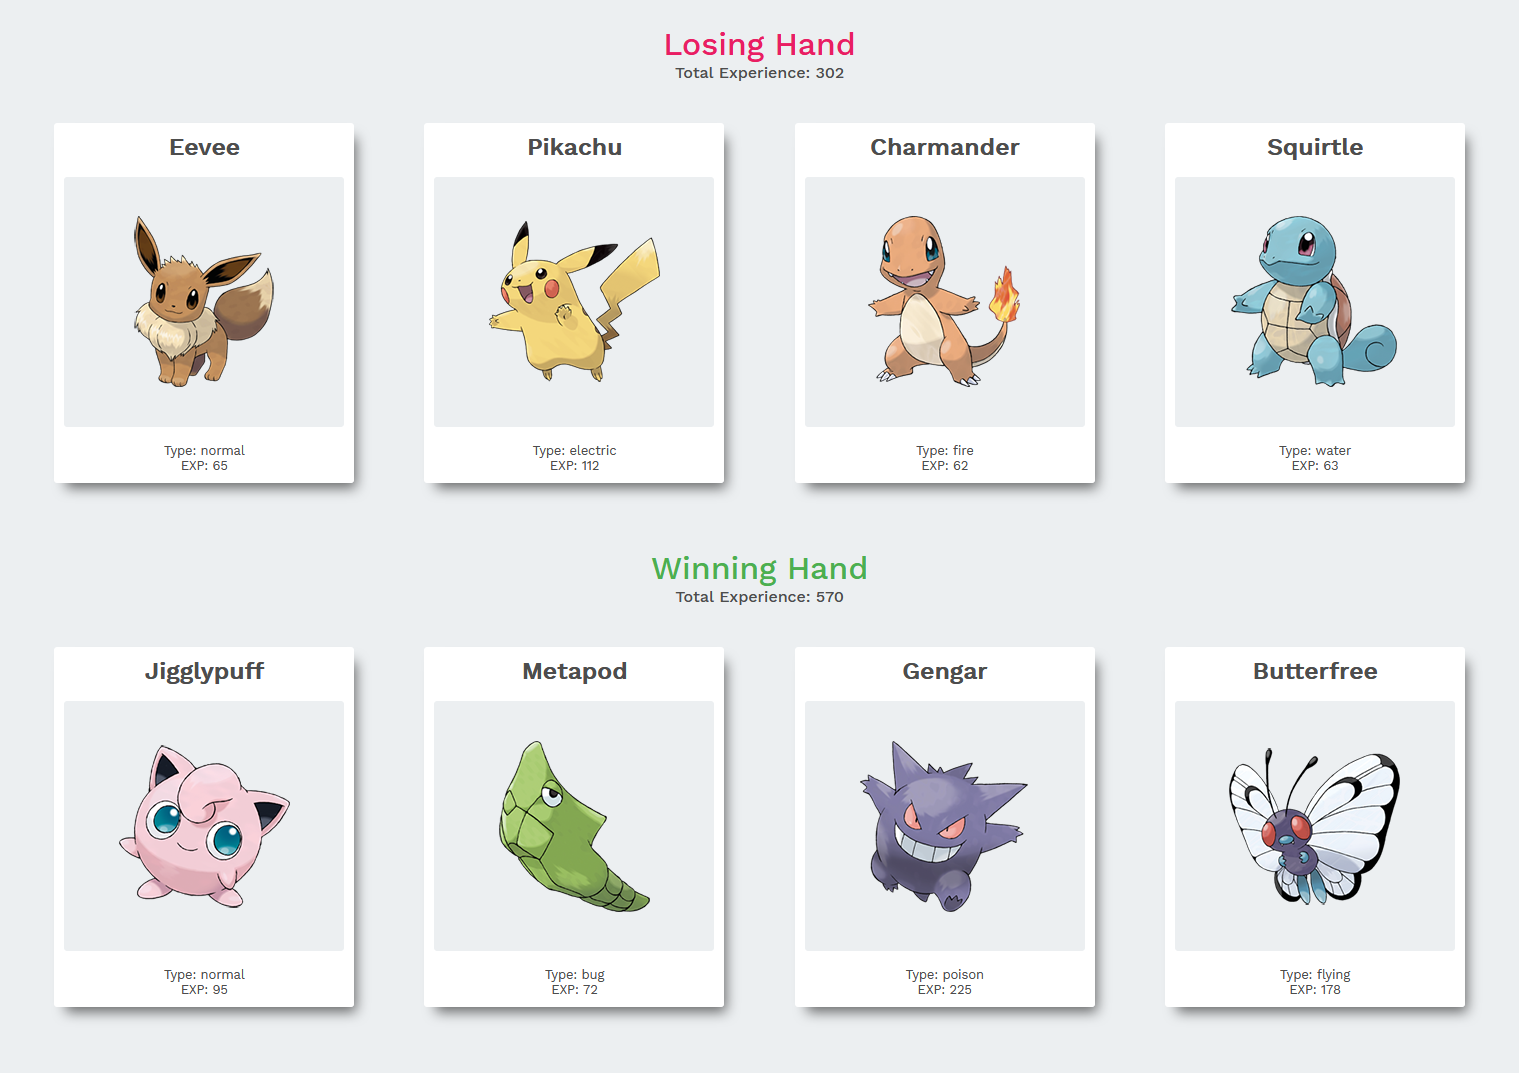
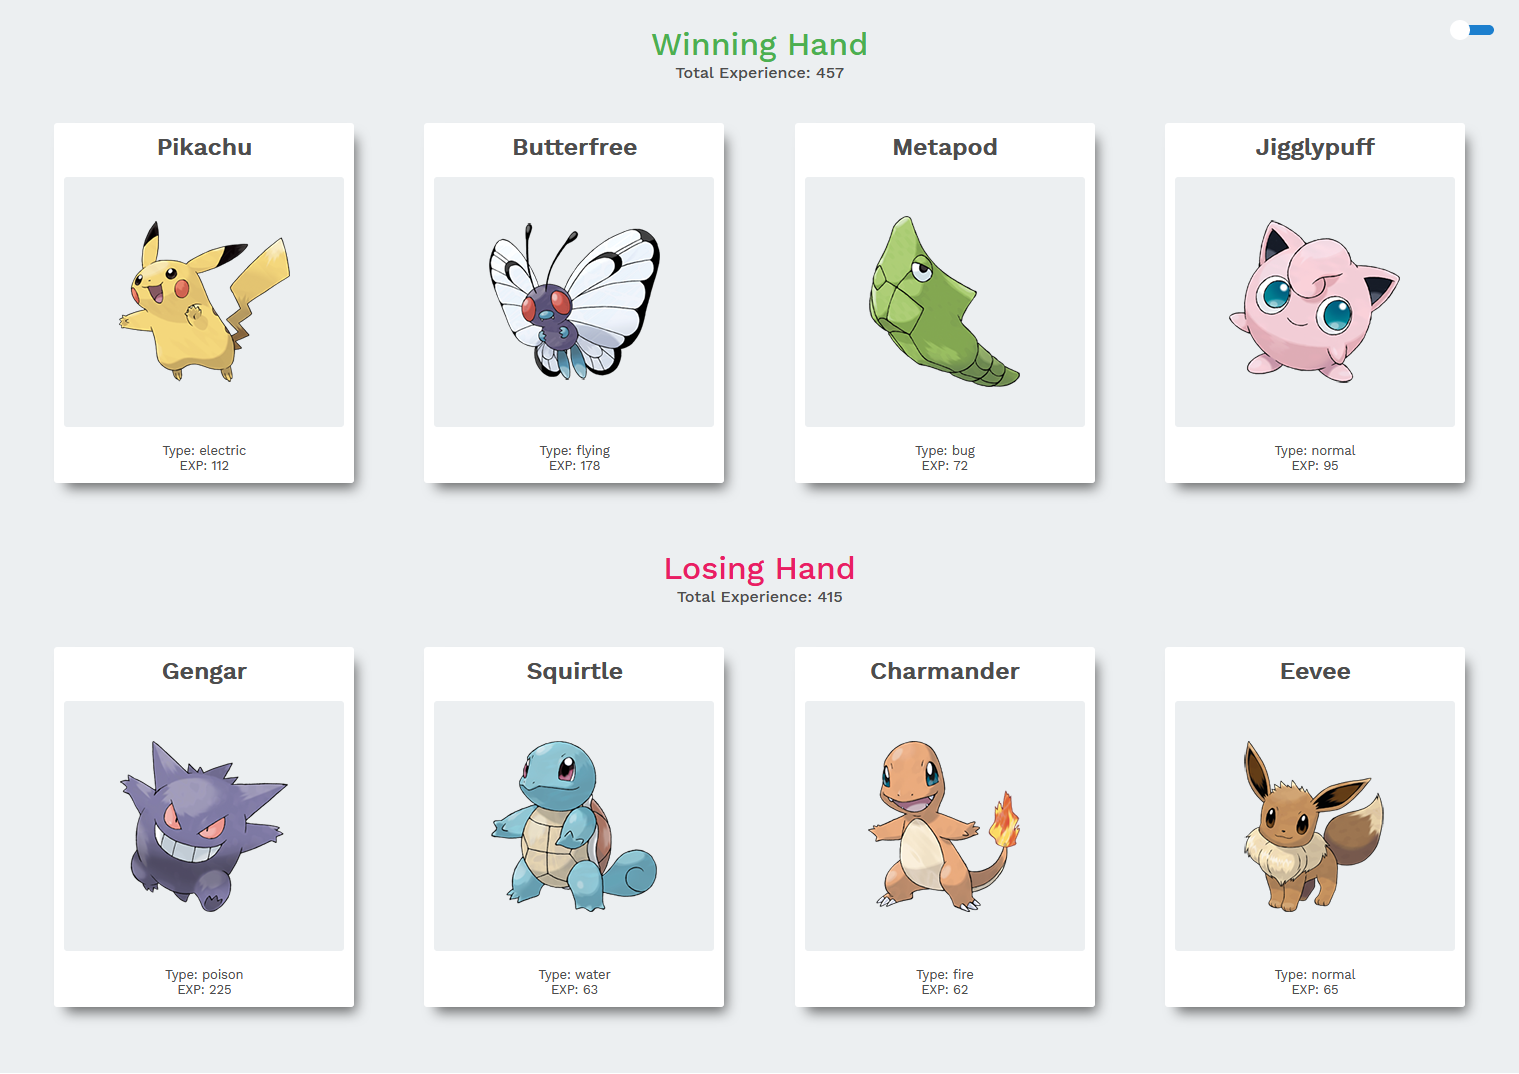
Add dark mode option

diff --git a/src/components/PokeGame/index.tsx b/src/components/PokeGame/index.tsx
@@ -1,6 +1,17 @@
-import React, { useState, useEffect } from 'react';
-import PokeDex from '../PokeDex';
+import React, { useState, useEffect, useContext } from 'react';
+
+import Switch from 'react-switch';
+import { ThemeContext } from 'styled-components';
+import { shade } from 'polished';
+
 import api from '../../services/api';
+import PokeDex from '../PokeDex';
+
+import { SwitchWrapper } from './styles';
+
+interface Props {
+  toggleTheme(): void;
+}
 
 interface Request {
   id: number;
@@ -9,9 +20,10 @@ interface Request {
   base_experience: number;
 }
 
-const PokeGame: React.FC = () => {
+const PokeGame: React.FC<Props> = ({ toggleTheme }) => {
   const [hand1, setHand1] = useState<Request[]>([]);
   const [hand2, setHand2] = useState<Request[]>([]);
+  const { colors, title } = useContext(ThemeContext);
 
   useEffect(() => {
     async function loadPokemons(): Promise<void> {
@@ -33,6 +45,20 @@ const PokeGame: React.FC = () => {
 
   return (
     <>
+      <SwitchWrapper>
+        <Switch
+          onChange={toggleTheme}
+          checked={title === 'dark'}
+          checkedIcon={false}
+          uncheckedIcon={false}
+          height={10}
+          width={40}
+          handleDiameter={20}
+          offColor={shade(0.15, colors.barColor)}
+          onColor={colors.barColor}
+        />
+      </SwitchWrapper>
+
       <PokeDex pokemon={hand1} exp={exp1} isWinner={exp1 > exp2} />
       <PokeDex pokemon={hand2} exp={exp2} isWinner={exp2 > exp1} />
     </>

diff --git a/src/App.tsx b/src/App.tsx
@@ -1,13 +1,30 @@
-import React from 'react';
+import React, { useCallback } from 'react';
+import { ThemeProvider, DefaultTheme } from 'styled-components';
 import PokeGame from './components/PokeGame';
+
+import usePersistedState from './utils/usePersistedState';
+
+import light from './styles/themes/light';
+import dark from './styles/themes/dark';
 
 import GlobalStyle from './styles/global';
 
-const App: React.FC = () => (
-  <>
-    <PokeGame />
-    <GlobalStyle />
-  </>
-);
+const App: React.FC = () => {
+  const [theme, setTheme] = usePersistedState<DefaultTheme>(
+    '@PokeDexTheme',
+    light
+  );
+
+  const toggleTheme = useCallback(() => {
+    setTheme(theme.title === 'light' ? dark : light);
+  }, [setTheme, theme.title]);
+
+  return (
+    <ThemeProvider theme={theme}>
+      <PokeGame toggleTheme={toggleTheme} />
+      <GlobalStyle />
+    </ThemeProvider>
+  );
+};
 
 export default App;

diff --git a/src/utils/usePersistedState.ts b/src/utils/usePersistedState.ts
@@ -1,0 +1,22 @@
+import { useState, useEffect, Dispatch, SetStateAction } from 'react';
+
+type Response<T> = [T, Dispatch<SetStateAction<T>>];
+
+function usePersistedState<T>(key: string, initialState: T): Response<T> {
+  const [state, setState] = useState(() => {
+    const storageValue = localStorage.getItem(key);
+
+    if (storageValue) {
+      return JSON.parse(storageValue);
+    }
+    return initialState;
+  });
+
+  useEffect(() => {
+    localStorage.setItem(key, JSON.stringify(state));
+  }, [key, state]);
+
+  return [state, setState];
+}
+
+export default usePersistedState;

diff --git a/src/components/PokeCard/styles.ts b/src/components/PokeCard/styles.ts
@@ -6,7 +6,7 @@ export const Container = styled.div`
   margin: 1rem;
   box-shadow: 7px 10px 12px -5px rgba(0, 0, 0, 0.56);
   text-align: center;
-  background-color: white;
+  background-color: ${(props) => props.theme.colors.backgroundCard};
   border-radius: 3px;
 
   .data {
@@ -24,7 +24,7 @@ export const Container = styled.div`
     justify-content: center;
     align-items: center;
     height: 250px;
-    background-color: #eceff1;
+    background-color: ${(props) => props.theme.colors.backgroundImage};
     border-radius: 3px;
     margin-bottom: 1rem;
 

diff --git a/src/styles/styled.d.ts b/src/styles/styled.d.ts
@@ -1,0 +1,19 @@
+import 'styled-components';
+
+declare module 'styled-components' {
+  export interface DefaultTheme {
+    title: string;
+
+    colors: {
+      background: string;
+      backgroundCard: string;
+      backgroundImage: string;
+      text: string;
+
+      winner: string;
+      loser: string;
+
+      barColor: string;
+    };
+  }
+}

diff --git a/src/styles/global.ts b/src/styles/global.ts
@@ -9,8 +9,8 @@ export default createGlobalStyle`
   }
 
   body {
-    background: #eceff1;
-    color: #4d4d4d;
+    background: ${(props) => props.theme.colors.background};
+    color: ${(props) => props.theme.colors.text};
     -webkit-font-smoothing: antialiased;
     -moz-osx-font-smoothing: grayscale;
   }

diff --git a/src/components/PokeDex/styles.ts b/src/components/PokeDex/styles.ts
@@ -11,12 +11,12 @@ export const Container = styled.div`
   }
 
   .winner {
-    color: #4caf50;
+    color: ${(props) => props.theme.colors.winner};
     margin-top: 25px;
   }
 
   .loser {
-    color: #e91e63;
+    color: ${(props) => props.theme.colors.loser};
     margin-top: 25px;
   }
 

diff --git a/src/styles/themes/light.ts b/src/styles/themes/light.ts
@@ -1,0 +1,15 @@
+export default {
+  title: 'light',
+
+  colors: {
+    background: '#eceff1',
+    backgroundCard: '#fff',
+    backgroundImage: '#eceff1',
+    text: '#4d4d4d',
+
+    winner: '#4caf50',
+    loser: '#e91e63',
+
+    barColor: '#2196f3',
+  },
+};

diff --git a/src/styles/themes/dark.ts b/src/styles/themes/dark.ts
@@ -1,0 +1,15 @@
+export default {
+  title: 'dark',
+
+  colors: {
+    background: '#2c3e50',
+    backgroundCard: '#1D2A36',
+    backgroundImage: '#56799C',
+    text: '#fff',
+
+    winner: '#4caf50',
+    loser: '#e91e63',
+
+    barColor: '#c9c9c9',
+  },
+};

diff --git a/src/components/PokeGame/styles.ts b/src/components/PokeGame/styles.ts
@@ -1,0 +1,7 @@
+import styled from 'styled-components';
+
+export const SwitchWrapper = styled.div`
+  position: absolute;
+  right: 20px;
+  top: 20px;
+`;

diff --git a/README.md b/README.md
@@ -26,7 +26,7 @@ A Pokedex game based on the Colt Steele course.
 This game divides cards between 2 players and the one with the highest score is the winner
 
 <h1 align="center">
-    <img alt="Example" title="Example" src=".github/pokedex.png" width="500px" />
+    <img alt="Game Screen" title="Game Screen" src=".github/pokedex.png" width="700px" />
 </h1>
 
 ## How to run
